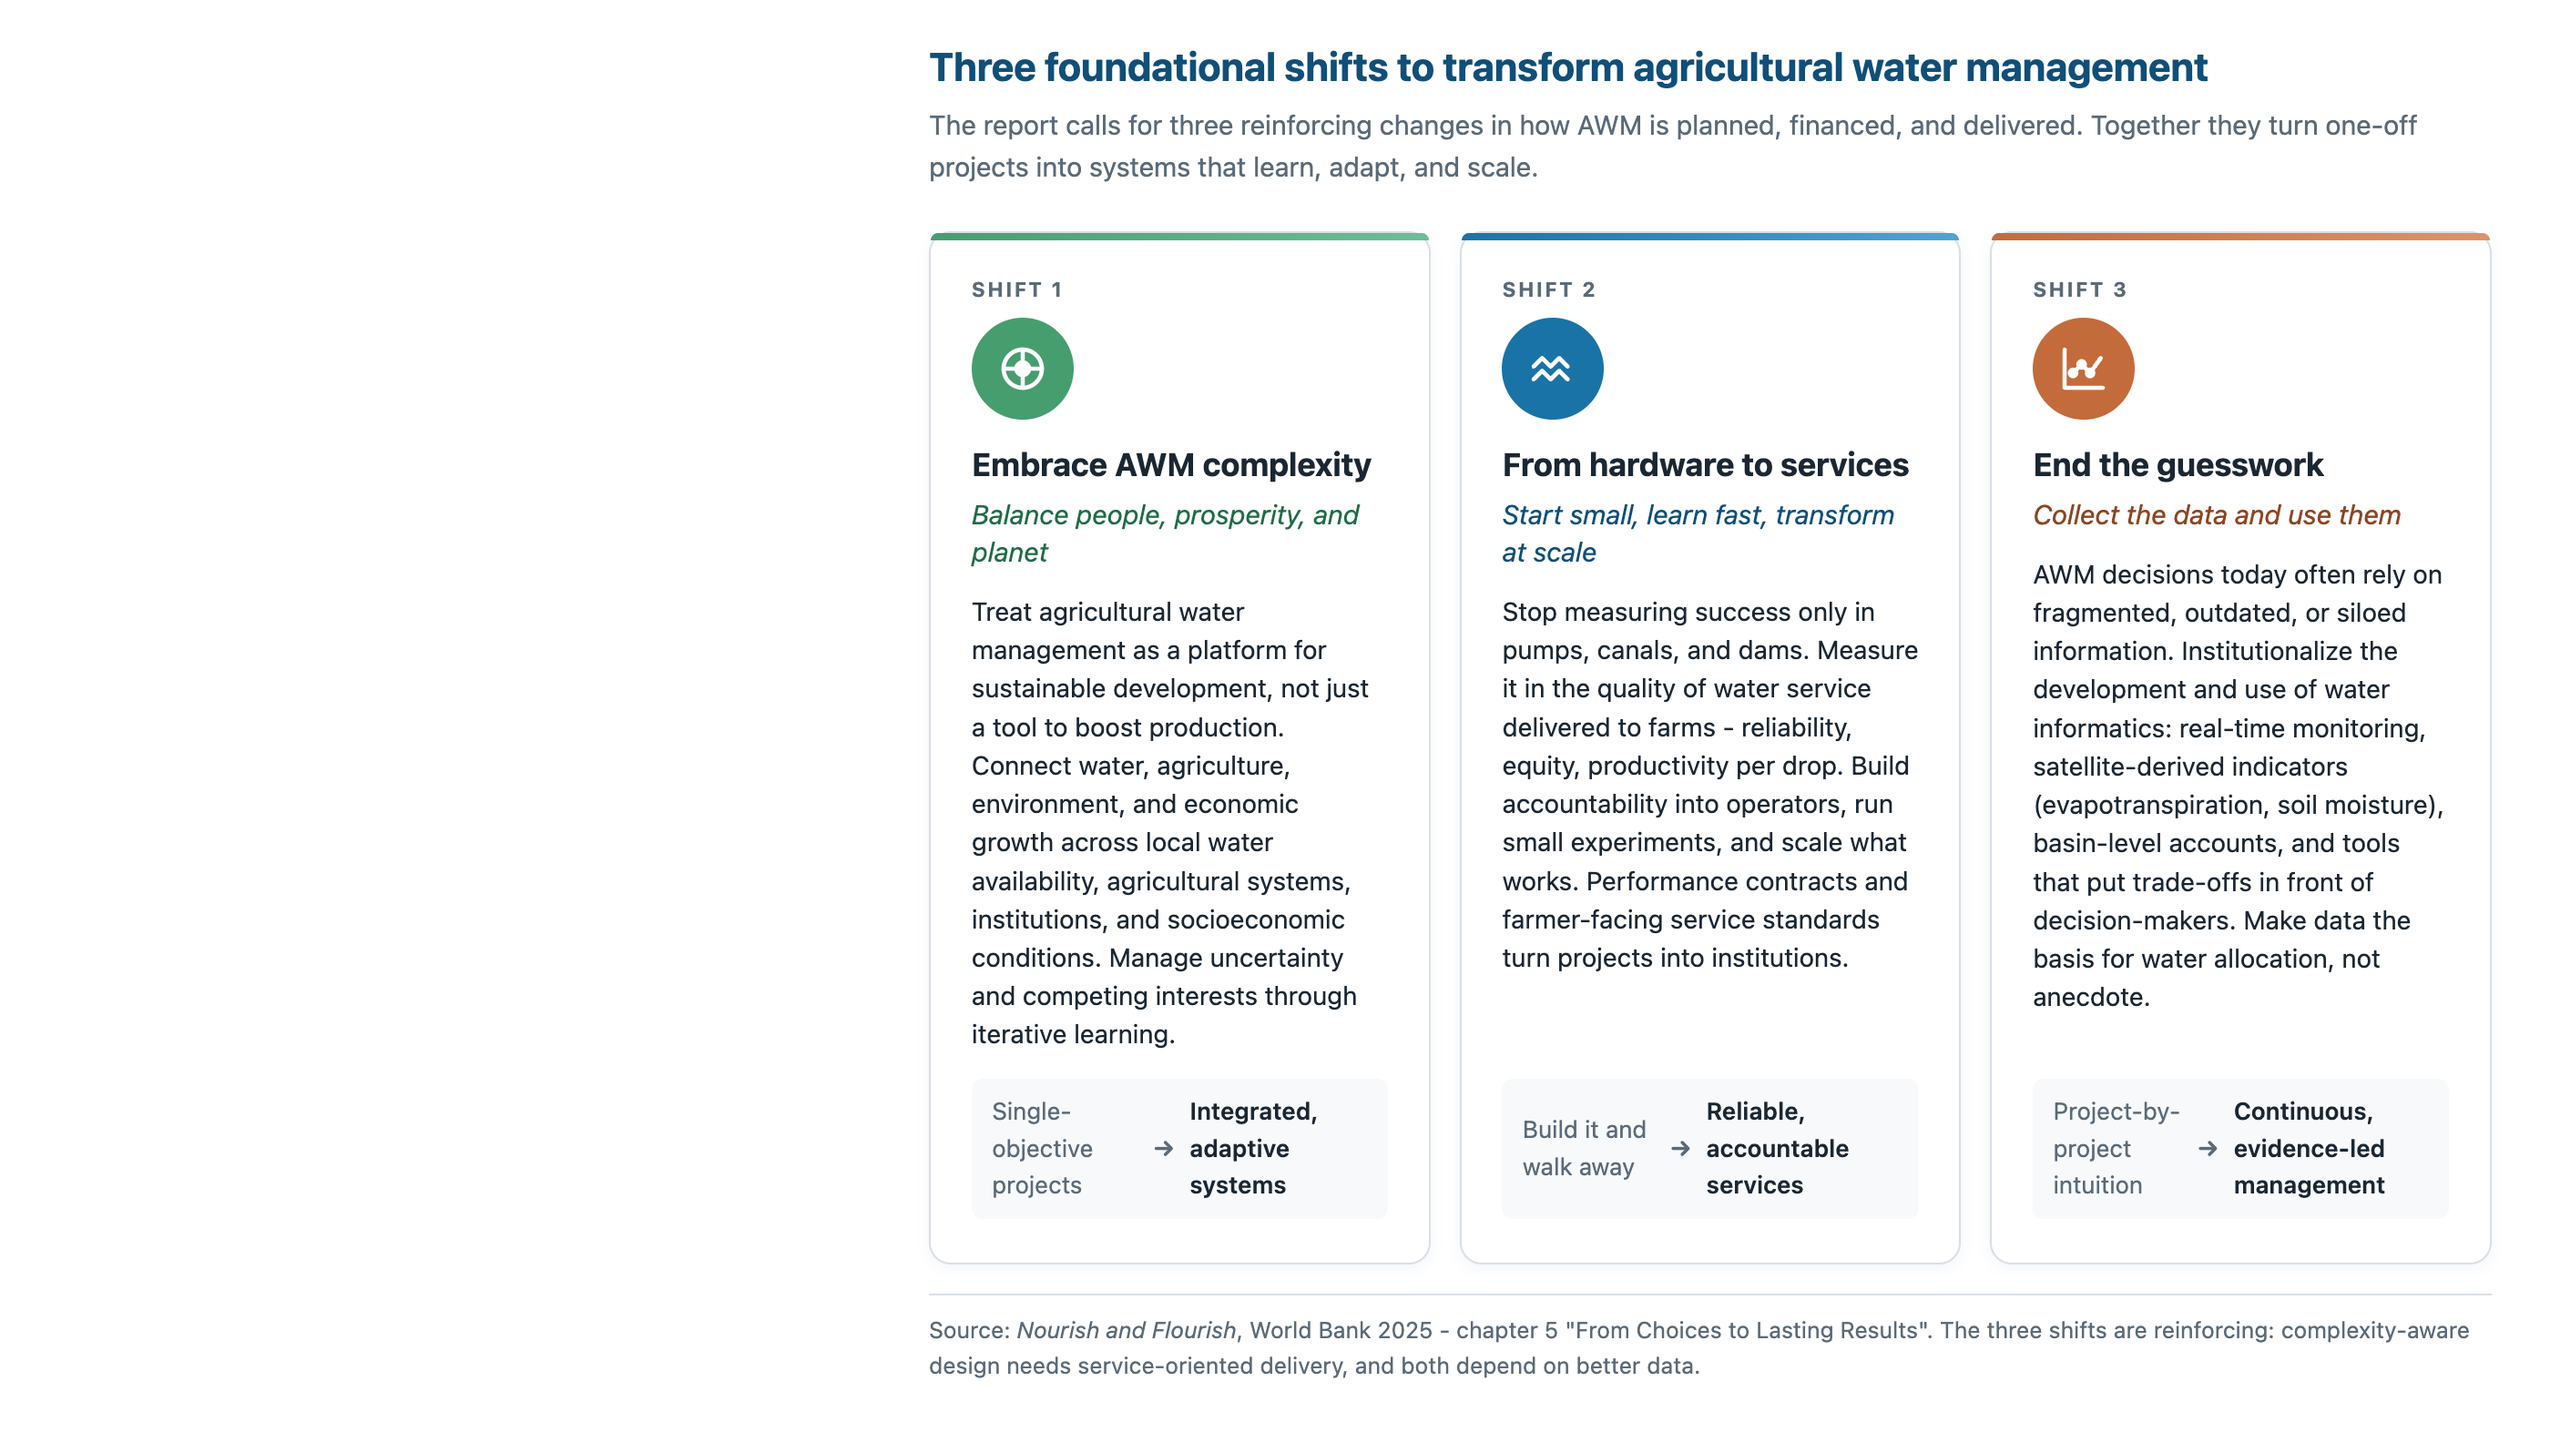
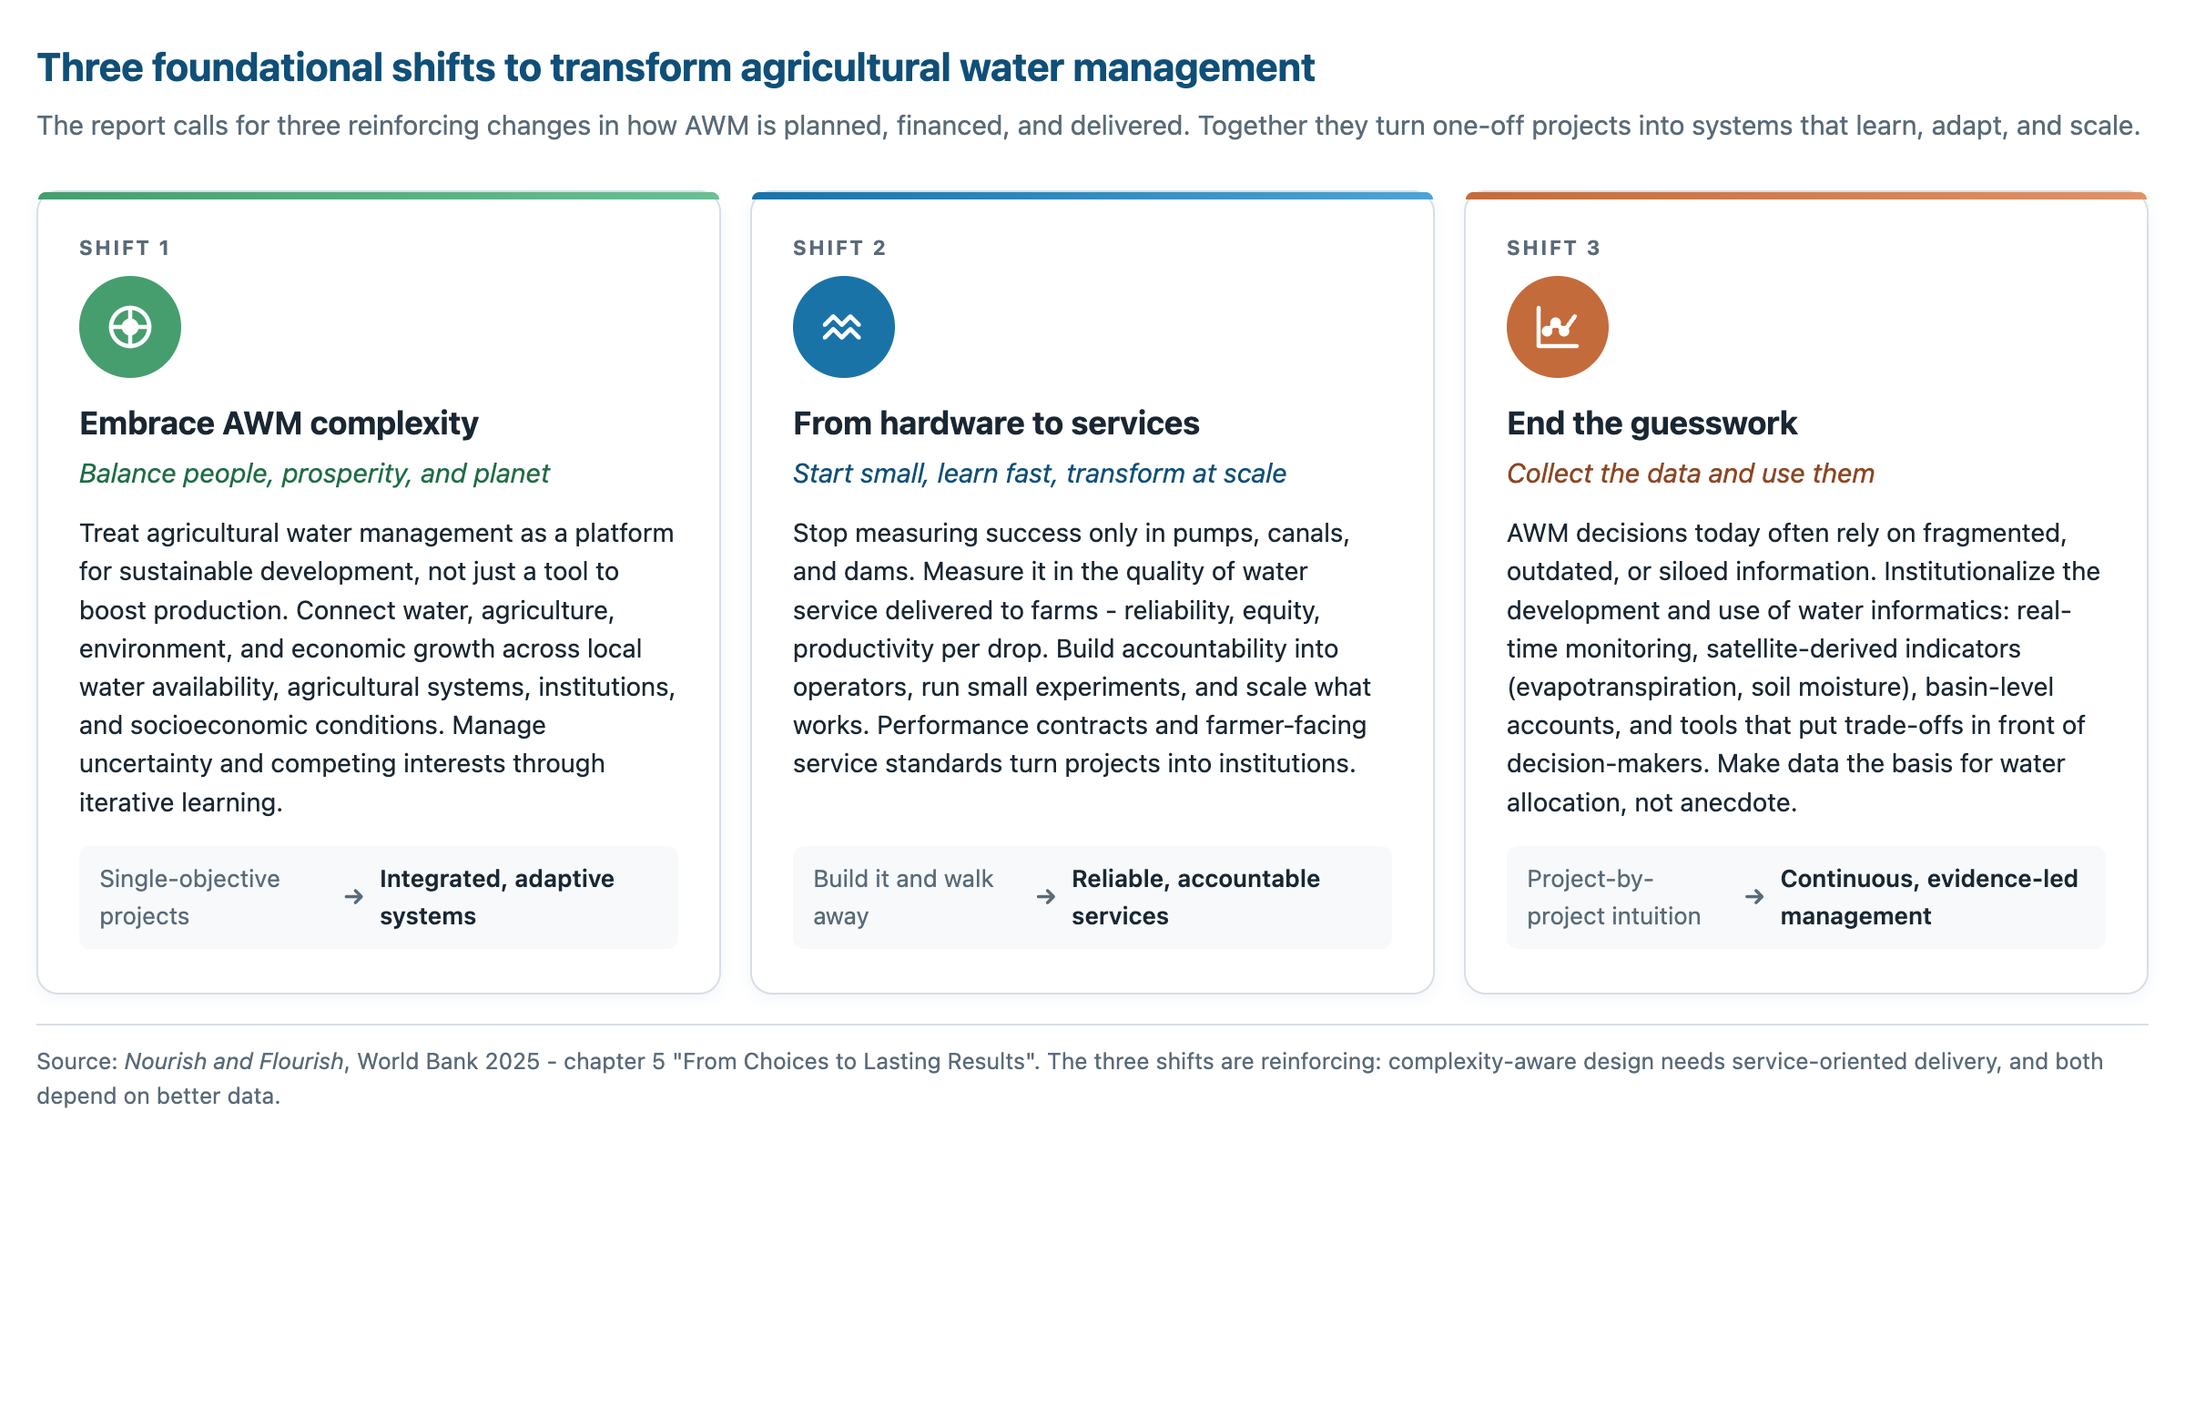
Compact case-studies legend; centered PNGs for docked-panel sidecars
Legend: shorter labels (C1 secure importer, etc.), tighter spacing, no-wrap
on items so all 6 fit on a single line.

Framework / three-shifts / investment-gap PNGs re-rendered without the
right-shift since their chapters are switching to docked-panel sidecar
style (where narrative sits side-by-side with media, no overlay).

Changed region(s): [[0.0, 0.0312, 0.9688, 0.8438], [0.375, 0.9062, 0.9688, 0.9688], [0.1562, 0.5938, 0.2812, 0.6562]]

diff --git a/viz/case-studies-map.html b/viz/case-studies-map.html
@@ -27,21 +27,22 @@
     }
     .legend {
       display: flex;
-      gap: 0.85rem;
+      gap: 0.7rem;
       flex-wrap: wrap;
       align-items: center;
     }
     .legend-item {
       display: inline-flex;
       align-items: center;
-      gap: 0.35rem;
-      font-size: 0.83rem;
+      gap: 0.3rem;
+      font-size: 0.78rem;
       color: var(--c-text);
+      white-space: nowrap;
     }
     .legend-swatch {
       display: inline-block;
-      width: 14px;
-      height: 14px;
+      width: 12px;
+      height: 12px;
       border-radius: 3px;
       border: 1px solid rgba(0,0,0,0.1);
     }
@@ -273,12 +274,12 @@
 
     <div class="toolbar">
       <div class="legend">
-        <span class="legend-item"><span class="legend-swatch c1"></span>Context 1 - water-secure importer</span>
-        <span class="legend-item"><span class="legend-swatch c2"></span>Context 2 - water-secure exporter</span>
-        <span class="legend-item"><span class="legend-swatch c3"></span>Context 3 - water-stressed exporter</span>
-        <span class="legend-item"><span class="legend-swatch c4"></span>Context 4 - water-stressed importer</span>
+        <span class="legend-item"><span class="legend-swatch c1"></span>C1 secure importer</span>
+        <span class="legend-item"><span class="legend-swatch c2"></span>C2 secure exporter</span>
+        <span class="legend-item"><span class="legend-swatch c3"></span>C3 stressed exporter</span>
+        <span class="legend-item"><span class="legend-swatch c4"></span>C4 stressed importer</span>
         <span class="legend-item"><span class="legend-swatch case"></span>Case study</span>
-        <span class="legend-item"><span class="legend-swatch nodata"></span>Insufficient data</span>
+        <span class="legend-item"><span class="legend-swatch nodata"></span>No data</span>
       </div>
       <div class="toolbar-controls">
         <button id="btn-all" class="active" type="button">All countries</button>
